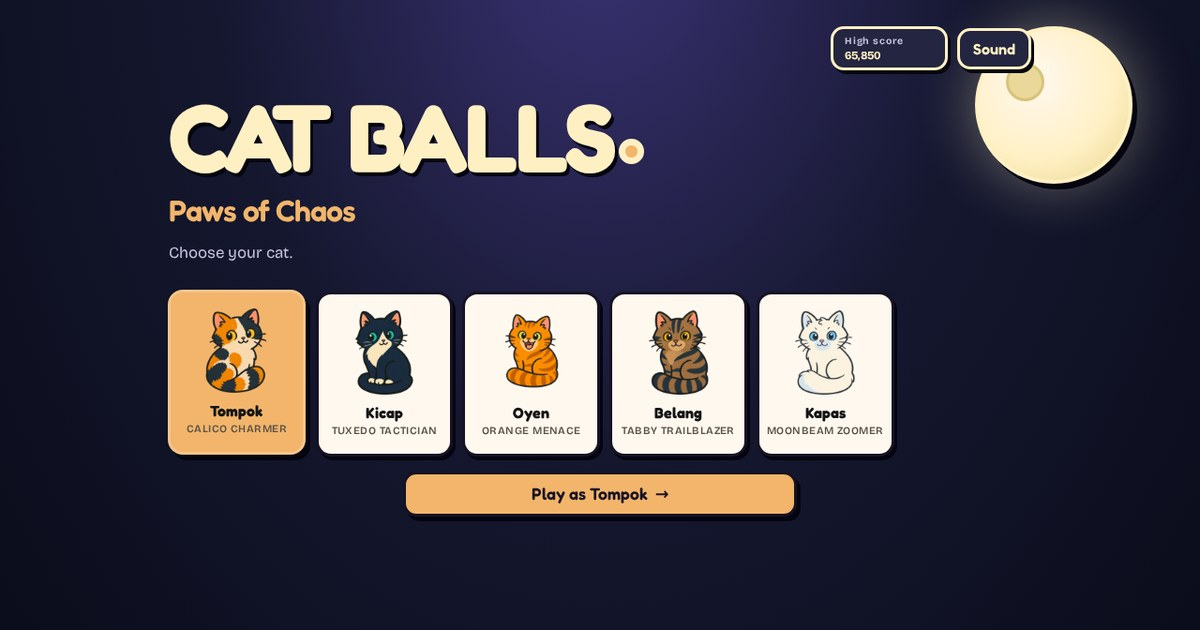
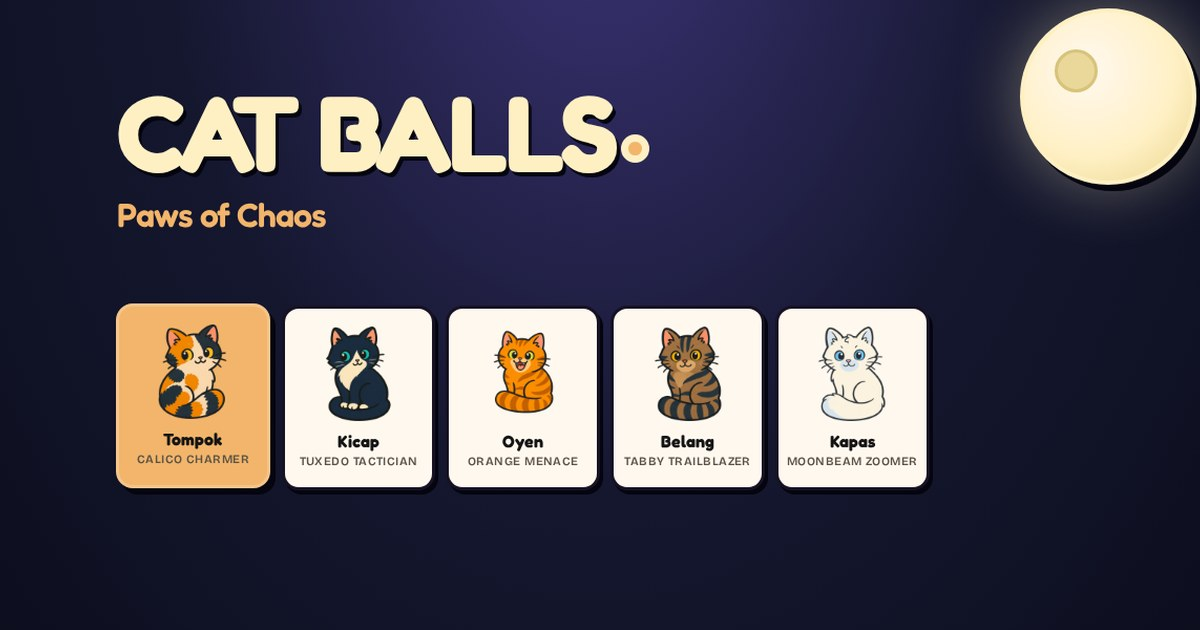
Use the silent crop for the Cat Balls share card

diff --git a/index.html b/index.html
@@ -7,11 +7,11 @@
     <meta name="description" content="Cat Balls: Paws of Chaos, a playful house-cat pinball adventure." />
     <meta property="og:title" content="Cat Balls: Paws of Chaos" />
     <meta property="og:description" content="House-cat pinball. Five cats, midnight chaos." />
-    <meta property="og:image" content="https://polah.app/balls/og.jpg" />
+    <meta property="og:image" content="https://polah.app/balls/og.jpg?v=2" />
     <meta property="og:image:width" content="1200" />
     <meta property="og:image:height" content="630" />
     <meta name="twitter:card" content="summary_large_image" />
-    <meta name="twitter:image" content="https://polah.app/balls/og.jpg" />
+    <meta name="twitter:image" content="https://polah.app/balls/og.jpg?v=2" />
     <link rel="preconnect" href="https://fonts.googleapis.com" />
     <link rel="preconnect" href="https://fonts.gstatic.com" crossorigin />
     <link
